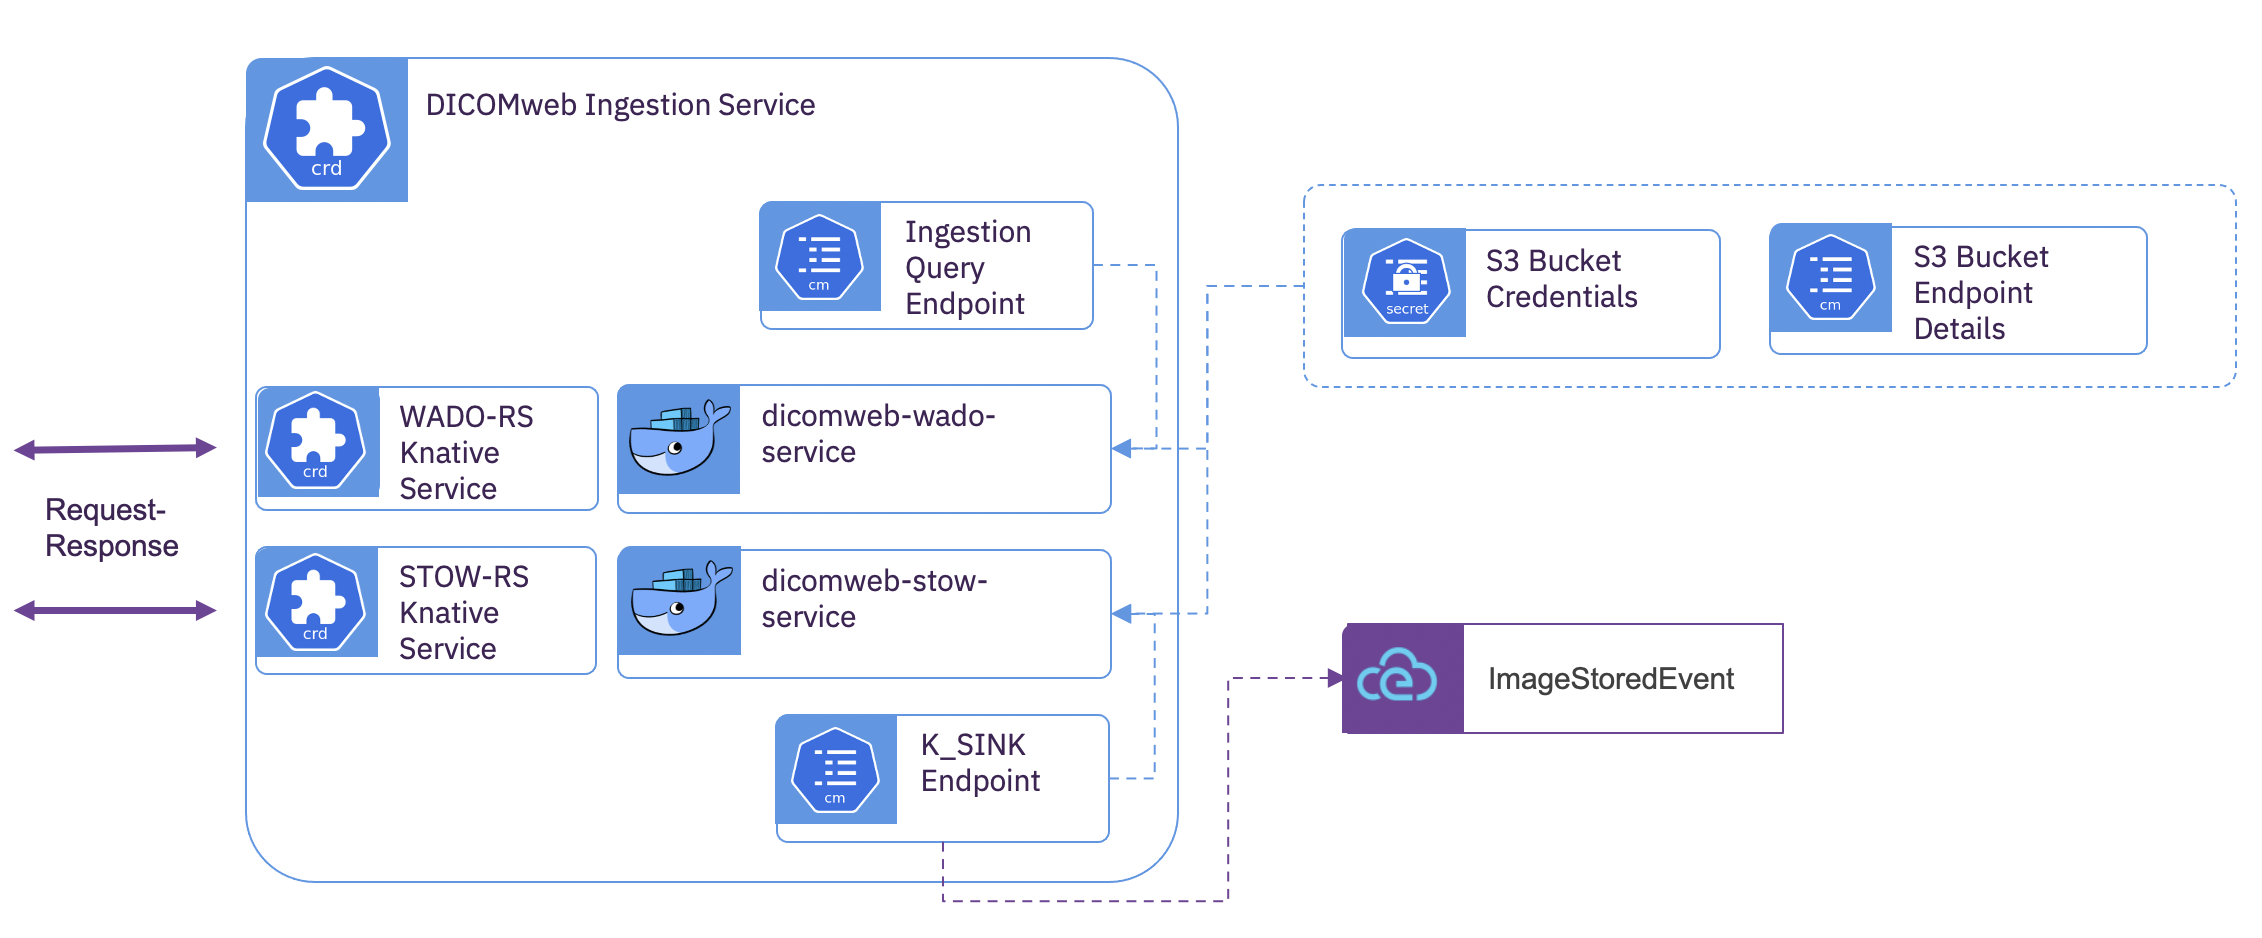
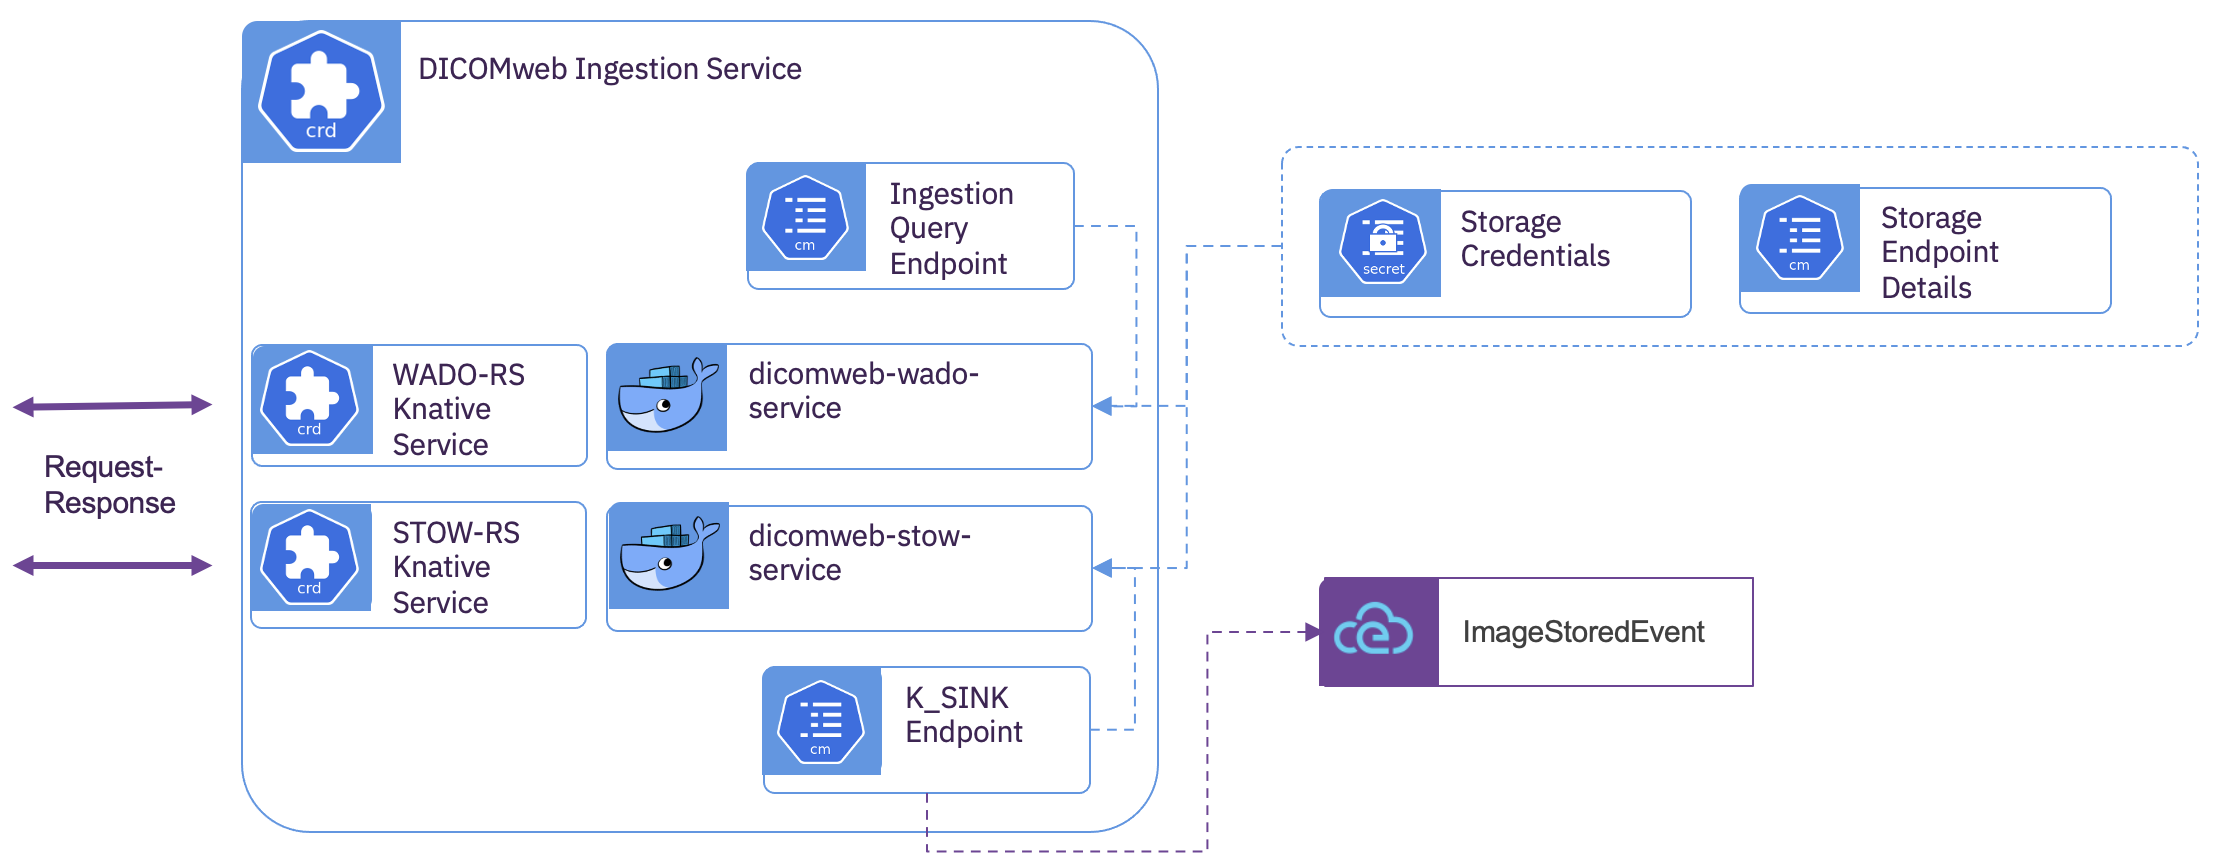
Doc updates for Azure Blob Storage

diff --git a/docs/dicomweb-ingestion-service/overview.md b/docs/dicomweb-ingestion-service/overview.md
@@ -17,13 +17,16 @@ Provides the STOW-RS implementation.  When the STOW-RS service is pushed DICOM o
 Provides the QIDO-RS and WADO-RS implementations.  When DICOM is stored in the storage space, the *DICOMweb Ingestion Service* has no record of where that data is placed or it's DICOM study context.  The *Ingestion Query Endpoint* provides the binding to the 
 *DICOM Event Driven Ingestion* for searching for raw DICOM resources within the storage space.   
 
+## DICOM Storage
+  There is support for persistent storage to either an S3 bucket or an Azure Blob container.
+
 ## Deployment  
   The *DICOMweb Ingestion Service* is intended to be consumed within a *Kubernetes* cluster with *Knative Serving* and *Knative Eventing*.  The provided [operator](../operator/overview.md) provides a single *Custom Resource Definition* for creating and managing instances of the *DICOMweb Ingestion Service* subcomponent.  The provided operator will deploy the *DICOMweb Ingestion Service* as two *Knative* service configurations with an ingress to each service.  There are also Cluster Local addresses provided for accessing the services from within the local *Kubernetes* cluster.  The provided *Custom Resource* exposes the elastic behavior of the services with the ability to specify concurrency and both upper and lower replica counts for scaling.  The operator performs all of the wiring of the *KSINK Endpoint* to the event broker and the *Ingestion Query Endpoint* to the *DICOM Event Driven Ingestion Service*.
 
 
 **S3 Bucket Endpoint Details**
 
-Create a *ConfigMap* with the S3 service address and the object bucket to use.
+When using S3 as the storage provider, create a *ConfigMap* with the S3 service address and the object bucket to use.
 
 ```yaml
 kind: ConfigMap
@@ -36,12 +39,11 @@ data:
   BUCKET_PORT: '80'
   BUCKET_REGION: region1
   BUCKET_SUBREGION: ''
-
 ```
 
 **S3 Bucket Credentials**
 
-Create a *Opague Secret* with the API key and access token for accessing the provided object bucket.
+When using S3 as the storage provider, create a *Opague Secret* with the base64 encoded API key and access token for accessing the provided object bucket.
 
 ```yaml
 kind: Secret
@@ -54,6 +56,34 @@ data:
 type: Opaque
 ```
 
+**Azure Blob Container Endpoint Details**
+
+When using Azure Blob containers as the storage provider, create a *ConfigMap* with the Azure Storage Account and the container to use.
+
+```yaml
+kind: ConfigMap
+apiVersion: v1
+metadata:
+  name: img-ingest-azure
+data:
+  AZURE_STORAGE_CONNECTION_STRING: https://storageAccountName.blob.core.windows.net
+  AZURE_CONTAINER_NAME: client-gateway1
+```
+
+**Azure Blob Container Credentials**
+
+When using Azure Blob containers as the storage provider, create a *Opague Secret* with the base64 encoded Storage Account name and access key.
+```yaml
+kind: Secret
+apiVersion: v1
+metadata:
+  namespace: tenant1
+  name: img-ingest-azure
+data:
+  AZURE_STORAGE_ACCOUNT_NAME: xxxxxx=
+  AZURE_STORAGE_ACCOUNT_KEY: yyyyyyyyy==
+type: Opaque
+```
  
  **Custom Resource**
 
@@ -65,9 +95,9 @@ kind: DicomwebIngestionService
 metadata:
   name: img-ingest
 spec:
-  # Reference to the ConfigMap with the S3 endpoint details
+  # Reference to the ConfigMap with the S3 or Azure Blob endpoint details
   bucketConfigName: img-ingest-s3
-  # Reference to the Secret with the S3 credentials
+  # Reference to the Secret with the S3 or Azure Blob credentials
   bucketSecretName: img-ingest-s3
   # Reference to the event broker that was created with the DicomEventDrivenIngestion custom resource
   dicomEventDrivenIngestionName: core

diff --git a/README.md b/README.md
@@ -35,12 +35,6 @@ The imaging ingestion component is currently comprised of six (6) subcomponents:
   
  The *DICOM Instance Binding* and *DICOM Study Binding* components are intended to enable consistent deployment and management of a number of different implementations.  Implementations may range from DICOMweb, to FHIRv4, to DIMSE, to proprietary.  Our development [roadmap](docs/roadmap.md) provides details on planned support for all medical imaging standard protocols.
 
-## Development Roadmap
-  Development Roadmap is available [here](docs/roadmap.md).  Community feedback is welcome! 
-  
-  - Getting started with [contribution](CONTRIBUTING.md), including how to build from source.
-  - Open an [issue](https://github.com/Alvearie/imaging-ingestion/issues).
-
 
 ## Deployment Dependencies
   The preferred deployment has the following deployment dependencies beyond *Kubernetes* core.  There a number of ways in which these dependencies can be added to the cluster; depending upon the target platform.  The preferred approach is to use *Kubernetes* operators whenever possible. 
@@ -52,7 +46,7 @@ The imaging ingestion component is currently comprised of six (6) subcomponents:
 | [Istio](https://istio.io)| Service mesh for Knative and service security overlay| [Istio Operator](https://github.com/istio/istio/tree/master/operator) |OpenShift Service Mesh |  yes | |
 |[Knative Serving and Eventing](https://knative.dev/docs/serving)| Serving elastic scalable microservices and Event-first interaction patterns between microservices | [Knative Operator](https://github.com/knative/operator) | OpenShift Serverless Operator | yes | | 
 |[PostgreSQL](https://www.postgresql.org)| Default backing store for imaging manifest data | [Crunchy Data PostgreSQL Operator ](https://github.com/CrunchyData/postgres-operator) | certified | yes | |
-|Any S3 compliant object storage| DICOM storage spaces| [MinIO](https://github.com/minio/minio-operator) | OpenShift Container Storage |  yes |  |
+|Any S3 compliant object storage | DICOM storage spaces| [MinIO](https://github.com/minio/minio-operator) | OpenShift Container Storage |  yes |  |
 |[NATS](https://nats.io)| Messaging DIMSE to/from the enterprise imaging security zone and *Kubernetes*.  **This is optional and only needed for DIMSE support**.| [NATS Operator](https://github.com/nats-io/nats-operator) |Not certified |  no | [example](examples/nats/README.md) |
 
 

diff --git a/docs/dimse-ingestion-service/overview.md b/docs/dimse-ingestion-service/overview.md
@@ -9,41 +9,8 @@
 The *DIMSE Ingestion Service* provides a single container that is bound to both a storage area and a NATS subject for communication.  
 
 ## Deployment
-
-**S3 Bucket Endpoint Details**
-
-Create a *ConfigMap* with the S3 service address and the object bucket to use.
-
-```yaml
-kind: ConfigMap
-apiVersion: v1
-metadata:
-  name: img-ingest-s3
-data:
-  BUCKET_HOST: s3-service.s3-namespace.svc.cluster.local
-  BUCKET_NAME: img-hri-6127b169-b7ae-429d-b74b-d58e7fcfdd58
-  BUCKET_PORT: '80'
-  BUCKET_REGION: region1
-  BUCKET_SUBREGION: ''
-
-```
-
-**S3 Bucket Credentials**
-
-Create a *Opague Secret* with the API key and access token for accessing the provided object bucket.
-
-```yaml
-kind: Secret
-apiVersion: v1
-metadata:
-  name: img-ingest-s3
-data:
-  AWS_ACCESS_KEY_ID: xxxxxx=
-  AWS_SECRET_ACCESS_KEY: yyyyyyyyy==
-type: Opaque
-```
-
-**Custom Resource**
+ 
+ **Custom Resource**
   
 Create the subcomponent deployment
 
@@ -53,9 +20,9 @@ kind: DimseIngestionService
 metadata:
   name: img-ingest
 spec:
-  # Reference to the ConfigMap with the S3 endpoint details
+  # Reference to the same ConfigMap used with the corresponding DicomWeb Ingestion Service
   bucketConfigName: img-ingest-s3
-  # Reference to the Secret with the S3 credentials
+  # Reference to the same Secret used with the corresponding DicomWeb Ingestion Service 
   bucketSecretName: img-ingest-s3
   # Reference to the event broker that was created with the DicomEventDrivenIngestion custom resource
   dicomEventDrivenIngestionName: core
